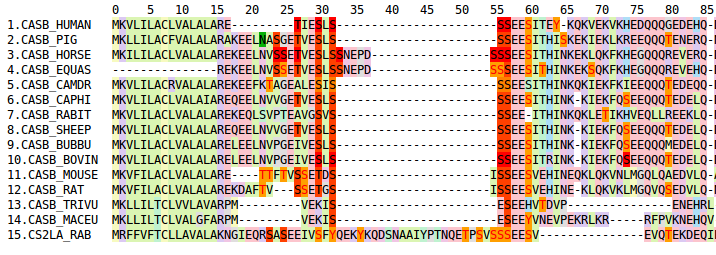
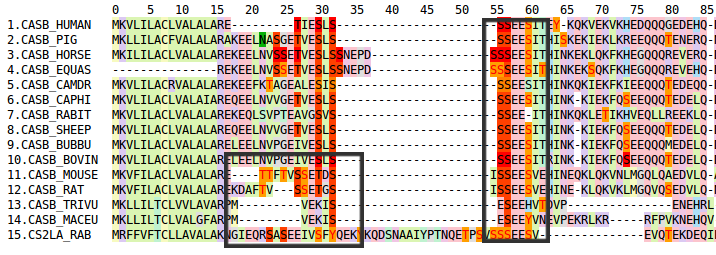
new pics for examples + colouring legends

Changed region(s): [[0.676, 0.0549, 0.7682, 0.9608], [0.3073, 0.5765, 0.5223, 0.9882]]

diff --git a/kmad_web/frontend/templates/dashboard/disprot_examples.html b/kmad_web/frontend/templates/dashboard/disprot_examples.html
@@ -26,12 +26,11 @@ Disprot examples
     <strong>60S acidic ribosomal protein P1-B</strong>
     <div class="row">
       <br>
-      <div class="col-md-6">
+      <div class="col-md-12">
         Clustal Omega
         <br>
         <img src="{{ url_for('static', filename="images/disprot_examples/terminal_motifs/DP00001_e2_rand_clustal.png")}}">
-      </div>
-      <div class="col-md-6">
+        <br>
         KMAD
         <br>
         <img src="{{ url_for('static', filename="images/disprot_examples/terminal_motifs/DP00001_e2_rand_kmad10.png")}}">
@@ -41,124 +40,8 @@ Disprot examples
       <div class="col-md-12">
         <div class="jumbotron">
           <div class="row">
-            <div class="col-md-6">
-              <span class="featMOTIF1">&nbsp;&nbsp;&nbsp;</span> LIG_BIR_II_1
-              <br>
-              <span class="featMOTIF2">&nbsp;&nbsp;&nbsp;</span> LIG_TYR_ITIM
-              <br>
-              <span class="featMOTIF3">&nbsp;&nbsp;&nbsp;</span> LIG_BIR_III_1
-              <br>
-              <span class="featMOTIF4">&nbsp;&nbsp;&nbsp;</span> LIG_FHA_1
-              <br>
-              <span class="featMOTIF5">&nbsp;&nbsp;&nbsp;</span> LIG_LIR_Nem_3
-              <br>
-              <span class="featMOTIF6">&nbsp;&nbsp;&nbsp;</span> TRG_ENDOCYTIC_2
-              <br>
-              <span class="featMOTIF7">&nbsp;&nbsp;&nbsp;</span> TRG_LysEnd_APsAcLL_1
-              <br>
-              <span class="featMOTIF8">&nbsp;&nbsp;&nbsp;</span> TRG_NES_CRM1_1
-              <br>
-              <span class="featMOTIF9">&nbsp;&nbsp;&nbsp;</span> LIG_eIF4E_1
-              <br>
-              <span class="featMOTIF10">&nbsp;&nbsp;&nbsp;</span> LIG_eIF4E_1
-              <br>
-
-
-
-
-
-              <br>
-              <span class="featMOTIFan">&nbsp;&nbsp;&nbsp;</span> TRG_ENDOCYTIC_2
-              <br>
-              <span class="featMOTIFaU">&nbsp;&nbsp;&nbsp;</span> MOD_CDK_1
-              <br>
-              <span class="featMOTIFaw">&nbsp;&nbsp;&nbsp;</span> LIG_eIF4E_1
-              <br>
-              <span class="featMOTIFaT">&nbsp;&nbsp;&nbsp;</span> DEG_Nend_UBRbox_3
-              <br>
-              <span class="featMOTIFae">&nbsp;&nbsp;&nbsp;</span> LIG_TRAF2_1
-              <br>
-              <span class="featMOTIFaC">&nbsp;&nbsp;&nbsp;</span> DEG_MDM2_1
-              <br>
-              <span class="featMOTIFaM">&nbsp;&nbsp;&nbsp;</span> MOD_PK_1
-              <br>
-              <span class="featMOTIFaR">&nbsp;&nbsp;&nbsp;</span> DOC_PP1_RVXF_1
-              <br>
-              <span class="featMOTIFao">&nbsp;&nbsp;&nbsp;</span> DOC_MAPK_1
-              <br>
-              <span class="featMOTIFaS">&nbsp;&nbsp;&nbsp;</span> MOD_NEK2_1
-              <br>
-              <span class="featMOTIFaG">&nbsp;&nbsp;&nbsp;</span> MOD_NEK2_2
-              <br>
-              <span class="featMOTIFaD">&nbsp;&nbsp;&nbsp;</span> LIG_LIR_Gen_1
-              <br>
-              <span class="featMOTIFam">&nbsp;&nbsp;&nbsp;</span> LIG_TRAF6
-              <br>
-              <span class="featMOTIFaB">&nbsp;&nbsp;&nbsp;</span> LIG_BIR_III_1
-              <br>
-              <span class="featMOTIFau">&nbsp;&nbsp;&nbsp;</span> LIG_BIR_III_2
-              <br>
-              <span class="featMOTIFai">&nbsp;&nbsp;&nbsp;</span> MOD_SUMO
-              <br>
-              <span class="featMOTIFap">&nbsp;&nbsp;&nbsp;</span> MOD_CK1_1
-              <br>
-              <span class="featMOTIFaQ">&nbsp;&nbsp;&nbsp;</span> LIG_Actin_WH2_2
-              <br>
-              <span class="featMOTIFas">&nbsp;&nbsp;&nbsp;</span> MOD_PLK
-              <br>
-              <span class="featMOTIFav">&nbsp;&nbsp;&nbsp;</span> LIG_14-3-3_3
-              <br>
-              <span class="featMOTIFah">&nbsp;&nbsp;&nbsp;</span> DOC_USP7_1
-              <br>
-              <span class="featMOTIFaE">&nbsp;&nbsp;&nbsp;</span> DEG_COP1
-              <br>
-              <span class="featMOTIFaf">&nbsp;&nbsp;&nbsp;</span> LIG_SUMO_SIM_par_1
-              <br>
-              <span class="featMOTIFaz">&nbsp;&nbsp;&nbsp;</span> LIG_FHA_1
-              <br>
-              <span class="featMOTIFal">&nbsp;&nbsp;&nbsp;</span> TRG_PEX_2
-              <br>
-              <span class="featMOTIFaa">&nbsp;&nbsp;&nbsp;</span> TRG_PEX_1
-              <br>
-              <span class="featMOTIFab">&nbsp;&nbsp;&nbsp;</span> LIG_NRBOX
-              <br>
-              <span class="featMOTIFax">&nbsp;&nbsp;&nbsp;</span> TRG_NES_CRM1_1
-              <br>
-              <span class="featMOTIFaO">&nbsp;&nbsp;&nbsp;</span> MOD_ProDKin_1
-              <br>
-              <span class="featMOTIFaK">&nbsp;&nbsp;&nbsp;</span> DEG_Nend_UBRbox_1
-              <br>
-              <span class="featMOTIFaP">&nbsp;&nbsp;&nbsp;</span> DOC_PP1_SILK_1
-              <br>
-              <span class="featMOTIFaH">&nbsp;&nbsp;&nbsp;</span> LIG_FHA_2
-              <br>
-              <span class="featMOTIFaN">&nbsp;&nbsp;&nbsp;</span> LIG_SUMO_SIM_anti_2
-              <br>
-              <span class="featMOTIFay">&nbsp;&nbsp;&nbsp;</span> DOC_CYCLIN_1
-              <br>
-              <span class="featMOTIFaj">&nbsp;&nbsp;&nbsp;</span> MOD_CK2_1
-              <br>
-              <span class="featMOTIFaF">&nbsp;&nbsp;&nbsp;</span> LIG_SH3_3
-              <br>
-              <span class="featMOTIFaL">&nbsp;&nbsp;&nbsp;</span> LIG_SH3_4
-              <br>
-              <span class="featMOTIFaJ">&nbsp;&nbsp;&nbsp;</span> LIG_Sin3_3
-              <br>
-              <span class="featMOTIFaI">&nbsp;&nbsp;&nbsp;</span> MOD_PIKK_1
-              <br>
-              <span class="featMOTIFaq">&nbsp;&nbsp;&nbsp;</span> DOC_PP2B_LxvP_1
-              <br>
-              <span class="featMOTIFar">&nbsp;&nbsp;&nbsp;</span> TRG_LysEnd_APsAcLL_1
-              <br>
-              <span class="featMOTIFat">&nbsp;&nbsp;&nbsp;</span> LIG_WD40_WDR5_VDV_1
-              <br>
-              <span class="featMOTIFak">&nbsp;&nbsp;&nbsp;</span> LIG_WD40_WDR5_VDV_2
-              <br>
-              <span class="featMOTIFaW">&nbsp;&nbsp;&nbsp;</span> DEG_Nend_UBRbox_2
-              <br>
-              <span class="featMOTIFag">&nbsp;&nbsp;&nbsp;</span> LIG_LIR_Nem_3
-              <br>
-            </div>
+          <img src="{{ url_for('static',
+          filename="images/disprot_examples/terminal_motifs/DP00001_legend.png")}}">
           </div>
         </div>
       </div>
@@ -184,6 +67,10 @@ Disprot examples
     <div class="row">
       <div class="col-md-12">
         <div class="jumbotron">
+          <div class="row">
+          <img src="{{ url_for('static',
+          filename="images/disprot_examples/terminal_motifs/DP00001_legend.png")}}">
+          </div>
         </div>
       </div>
     </div>
@@ -208,6 +95,8 @@ Disprot examples
     <div class="row">
       <div class="col-md-12">
         <div class="jumbotron">
+          <img src="{{ url_for('static',
+          filename="images/disprot_examples/terminal_motifs/DP00028_legend.png")}}">
         </div>
       </div>
     </div>

diff --git a/kmad_web/services/convert.py b/kmad_web/services/convert.py
@@ -68,7 +68,6 @@ def get_id(sequence):
 def run_pfam_scan(filename):
     domain_coords = []
     domain_accessions = []
-    '''
     with open(filename) as a:
         fastafile = re.sub('-', '', a.read())
     values = {'seq': fastafile, 'output': 'xml'}
@@ -103,7 +102,6 @@ def run_pfam_scan(filename):
                 count += 1
     except urllib2.HTTPError:
         _log.debug('Pfam scan HTTPError')
-    '''
     return [domain_coords, domain_accessions]
 
 
@@ -127,7 +125,7 @@ def check_id(uniprot_id, seq):
                           + uniprot_id + ".fasta")
     try:
         uni_seq = urllib2.urlopen(req).read()
-    except urllib2.HTTPError:
+    except urllib2.HTTPError or urllib2.URLError:
         _log.info("No entry with ID: {}".format(uniprot_id))
     else:
         uni_seq = ''.join(uni_seq.splitlines()[1:])
@@ -143,12 +141,15 @@ def get_uniprot_txt(uniprot_id):
     go_terms = []
     req = urllib2.Request("http://www.uniprot.org/uniprot/{}.txt".format(
         uniprot_id))
-    uniprot_dat = urllib2.urlopen(req).read().splitlines()
-    for lineI in uniprot_dat:
-        if lineI.startswith('FT'):
-            features += [lineI]
-        elif lineI.startswith('DR   GO;'):
-            go_terms += [lineI.split(';')[1].split(':')[1]]
+    try:
+        uniprot_dat = urllib2.urlopen(req).read().splitlines()
+        for lineI in uniprot_dat:
+            if lineI.startswith('FT'):
+                features += [lineI]
+            elif lineI.startswith('DR   GO;'):
+                go_terms += [lineI.split(';')[1].split(':')[1]]
+    except urllib2.HTTPError or urllib2.URLError:
+        _log.debug("Uniprot error")
     return {"features": features, "GO": go_terms}
 
 
